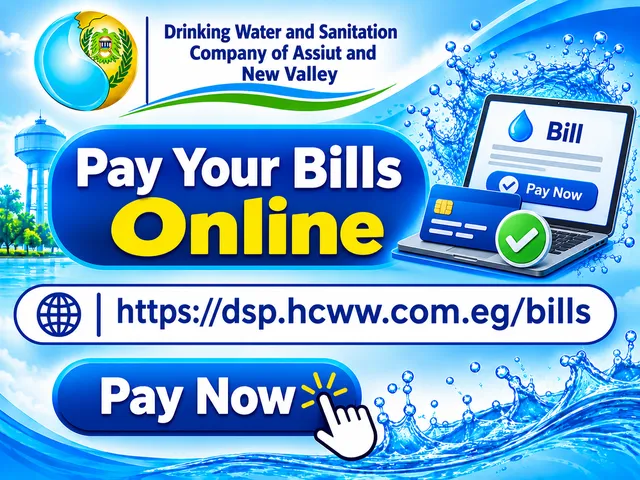
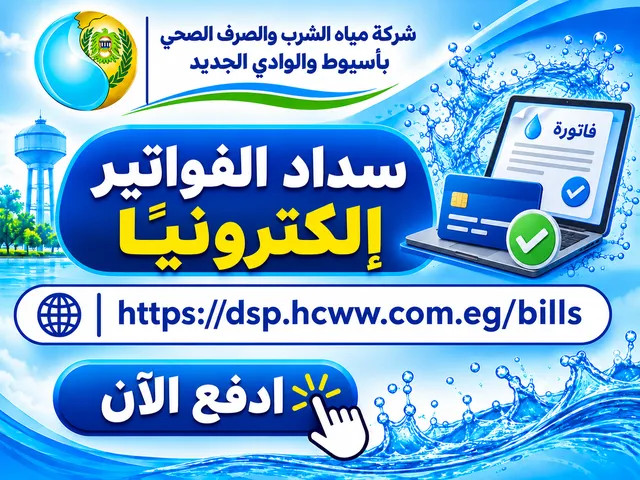
edit tap seirves

diff --git a/src/components/Header.tsx b/src/components/Header.tsx
@@ -959,16 +959,19 @@ function Header() {
                                     {t('خدمات', 'Services')}
                                 </button>
                                 <div className="nav-dropdown-menu">
-                                    <a className="nav-dropdown-item" href="http://bills.ascww.com.eg/Inqeury.aspx" target="_blank" rel="noopener noreferrer">{t('استعلم عن فاتورتك', 'Check your bill')}</a>
-                                    <a className="nav-dropdown-item" href={ROUTES.callCenter}>{t('خدمه العملاء', 'Customer service')}</a>
-                                    <a className="nav-dropdown-item" href={ROUTES.hotlineApp}>{t('الخط الساخن', 'Hotline')}</a>
-                                    <Link className="nav-dropdown-item" to={ROUTES.search}>{t('ابحث فى اخبار الشركة وخدماتها', 'Search company news and services')}</Link>
+                                    <a className="nav-dropdown-item" href="https://dsp.hcww.com.eg/" target="_blank" rel="noopener noreferrer">{t('المنصة الموحدة', 'Unified Platform')}</a>
+                                    <a className="nav-dropdown-item" href="https://dsp.hcww.com.eg/bills" target="_blank" rel="noopener noreferrer">{t('الاستعلام عن الفاتورة', 'Check your bill')}</a>
+                                    <a className="nav-dropdown-item" href="https://dsp.hcww.com.eg/bills" target="_blank" rel="noopener noreferrer">{t('سداد الفاتورة', 'Pay your bill')}</a>
+                                    <a className="nav-dropdown-item" href="https://dsp.hcww.com.eg/reading" target="_blank" rel="noopener noreferrer">{t('تسجيل قراءتي', 'Register my meter reading')}</a>
                                     <a className="nav-dropdown-item" href={ROUTES.myReadingApp}>{t('تطبيق قراءتي', 'My Reading app')}</a>
-                                    <a className="nav-dropdown-item" href={ROUTES.customerCharter}>{t('ميثاق المتعاملين', 'Customer charter')}</a>
-                                    <Link className="nav-dropdown-item" to={ROUTES.servicesEvidance}>{t('دليل المستخدمين', 'User guide')}</Link>
-                                    <Link className="nav-dropdown-item" to={ROUTES.contractOnService}>{t('رحلة المتعامل للتعاقد على طلب خدمة', 'Customer journey for service contract requests')}</Link>
                                     <a className="nav-dropdown-item" href={ROUTES.provideRequest}>{t('الأسئلة الشائعة', 'Frequently asked questions')}</a>
-                                    <a className="nav-dropdown-item" href={ROUTES.provideComplaine}>{t('تقديم شكوي', 'Submit a complaint')}</a>
+                                    <a className="nav-dropdown-item" href={ROUTES.provideComplaine}>{t('تقديم شكوى', 'Submit a complaint')}</a>
+                                    <a className="nav-dropdown-item" href={ROUTES.callCenter}>{t('خدمة العملاء', 'Customer service')}</a>
+                                    <a className="nav-dropdown-item" href={ROUTES.hotlineApp}>{t('الخط الساخن', 'Hotline')}</a>
+                                    <Link className="nav-dropdown-item" to={ROUTES.search}>{t('البحث في أخبار الشركة', 'Search company news')}</Link>
+                                    <a className="nav-dropdown-item" href={ROUTES.customerCharter}>{t('ميثاق المتعاملين', 'Customer charter')}</a>
+                                    <Link className="nav-dropdown-item" to={ROUTES.servicesEvidance}>{t('دليل المستخدم', 'User guide')}</Link>
+                                    <Link className="nav-dropdown-item" to={ROUTES.contractOnService}>{t('رحلة المتعامل للتعاقد على طلب خدمة', 'Customer journey for service contract requests')}</Link>
                                 </div>
                             </div>
 
@@ -1204,7 +1207,24 @@ function Header() {
                         <Link className="rounded-lg bg-slate-100 px-3 py-2" to={ROUTES.tendersArchive}>{t('المناقصات', 'Tenders')}</Link>
                         <details className="mobile-nav-group"><summary>{t('التدريب', 'Training')}</summary><div className="mobile-nav-submenu"><a href={ROUTES.generalAdminTraining}>{t('الإدارة العامة للتدريب', 'General Administration of Training')}</a><a href={ROUTES.trainingHallsBooking}>{t('قاعات التدريب', 'Training Halls')}</a><a href={ROUTES.schoolRegistration}>{t('المدرسة الفنية', 'Technical school')}</a></div></details>
                         <details className="mobile-nav-group"><summary>{t('وظائف', 'Jobs')}</summary><div className="mobile-nav-submenu"><a href={ROUTES.jobsAndCompetition}>{t('مسابقات و وظائف', 'Competitions and jobs')}</a><a href={ROUTES.resultOfWorker}>{t('نتائج المسابقات', 'Competition results')}</a></div></details>
-                        <details className="mobile-nav-group"><summary>{t('خدمات', 'Services')}</summary><div className="mobile-nav-submenu"><a href="http://bills.ascww.com.eg/Inqeury.aspx" target="_blank" rel="noopener noreferrer">{t('استعلم عن فاتورتك', 'Check your bill')}</a><a href={ROUTES.callCenter}>{t('خدمه العملاء', 'Customer service')}</a><a href={ROUTES.hotlineApp}>{t('الخط الساخن', 'Hotline')}</a><Link to={ROUTES.search}>{t('ابحث فى اخبار الشركة وخدماتها', 'Search company news and services')}</Link><a href={ROUTES.myReadingApp}>{t('تطبيق قراءتي', 'My Reading app')}</a><a href={ROUTES.customerCharter}>{t('ميثاق المتعاملين', 'Customer charter')}</a><Link to={ROUTES.servicesEvidance}>{t('دليل المستخدمين', 'User guide')}</Link><Link to={ROUTES.contractOnService}>{t('رحلة المتعامل للتعاقد على طلب خدمة', 'Customer journey for service contract requests')}</Link><a href={ROUTES.provideRequest}>{t('الأسئلة الشائعة', 'Frequently asked questions')}</a><a href={ROUTES.provideComplaine}>{t('تقديم شكوي', 'Submit a complaint')}</a></div></details>
+                        <details className="mobile-nav-group">
+                            <summary>{t('خدمات', 'Services')}</summary>
+                            <div className="mobile-nav-submenu">
+                                <a href="https://dsp.hcww.com.eg/" target="_blank" rel="noopener noreferrer">{t('المنصة الموحدة', 'Unified Platform')}</a>
+                                <a href="https://dsp.hcww.com.eg/bills" target="_blank" rel="noopener noreferrer">{t('الاستعلام عن الفاتورة', 'Check your bill')}</a>
+                                <a href="https://dsp.hcww.com.eg/bills" target="_blank" rel="noopener noreferrer">{t('سداد الفاتورة', 'Pay your bill')}</a>
+                                <a href="https://dsp.hcww.com.eg/reading" target="_blank" rel="noopener noreferrer">{t('تسجيل قراءتي', 'Register my meter reading')}</a>
+                                <a href={ROUTES.myReadingApp}>{t('تطبيق قراءتي', 'My Reading app')}</a>
+                                <a href={ROUTES.provideRequest}>{t('الأسئلة الشائعة', 'Frequently asked questions')}</a>
+                                <a href={ROUTES.provideComplaine}>{t('تقديم شكوى', 'Submit a complaint')}</a>
+                                <a href={ROUTES.callCenter}>{t('خدمة العملاء', 'Customer service')}</a>
+                                <a href={ROUTES.hotlineApp}>{t('الخط الساخن', 'Hotline')}</a>
+                                <Link to={ROUTES.search}>{t('البحث في أخبار الشركة', 'Search company news')}</Link>
+                                <a href={ROUTES.customerCharter}>{t('ميثاق المتعاملين', 'Customer charter')}</a>
+                                <Link to={ROUTES.servicesEvidance}>{t('دليل المستخدم', 'User guide')}</Link>
+                                <Link to={ROUTES.contractOnService}>{t('رحلة المتعامل للتعاقد على طلب خدمة', 'Customer journey for service contract requests')}</Link>
+                            </div>
+                        </details>
                         <details className="mobile-nav-group"><summary>{t('دعم النزاهة', 'Integrity support')}</summary><div className="mobile-nav-submenu"><a href={ROUTES.integritySupportOverview}>{t('إدارة دعم النزاهة', 'Integrity support department')}</a><a href={ROUTES.integritySupportHighlights}>{t('أبرز أعمال دعم النزاهة', 'Highlights of integrity support')}</a><a href={ROUTES.professionalConduct}>{t('السلوك الوظيفي', 'Professional conduct')}</a></div></details>
                         <details className="mobile-nav-group"><summary>{t('معرض الصور', 'Gallery')}</summary><div className="mobile-nav-submenu"><a href={ROUTES.bossTrips}>{t('جولات رئيس مجلس الإدارة', 'Chairman tours')}</a><a href={ROUTES.labOfCompany}>{t('معامل الشركه', 'Company laboratories')}</a><a href={ROUTES.wasteOfCompany}>{t('محطات الصرف', 'Wastewater stations')}</a><a href={ROUTES.trainingOfCompany}>{t('مركز التدريب', 'Training center')}</a><a href={ROUTES.schoolGallery}>{t('المدرسه الفنيه', 'Technical school')}</a><a href={ROUTES.sportOfCompany}>{t('النشاط الرياضي', 'Sports activity')}</a></div></details>
                         <a className="rounded-lg bg-[#0a3555] px-3 py-2 text-center text-white" href="tel:088-2331604">{t('الخط الساخن : 2331604-088', 'Phone: 088-2331604')}</a>
